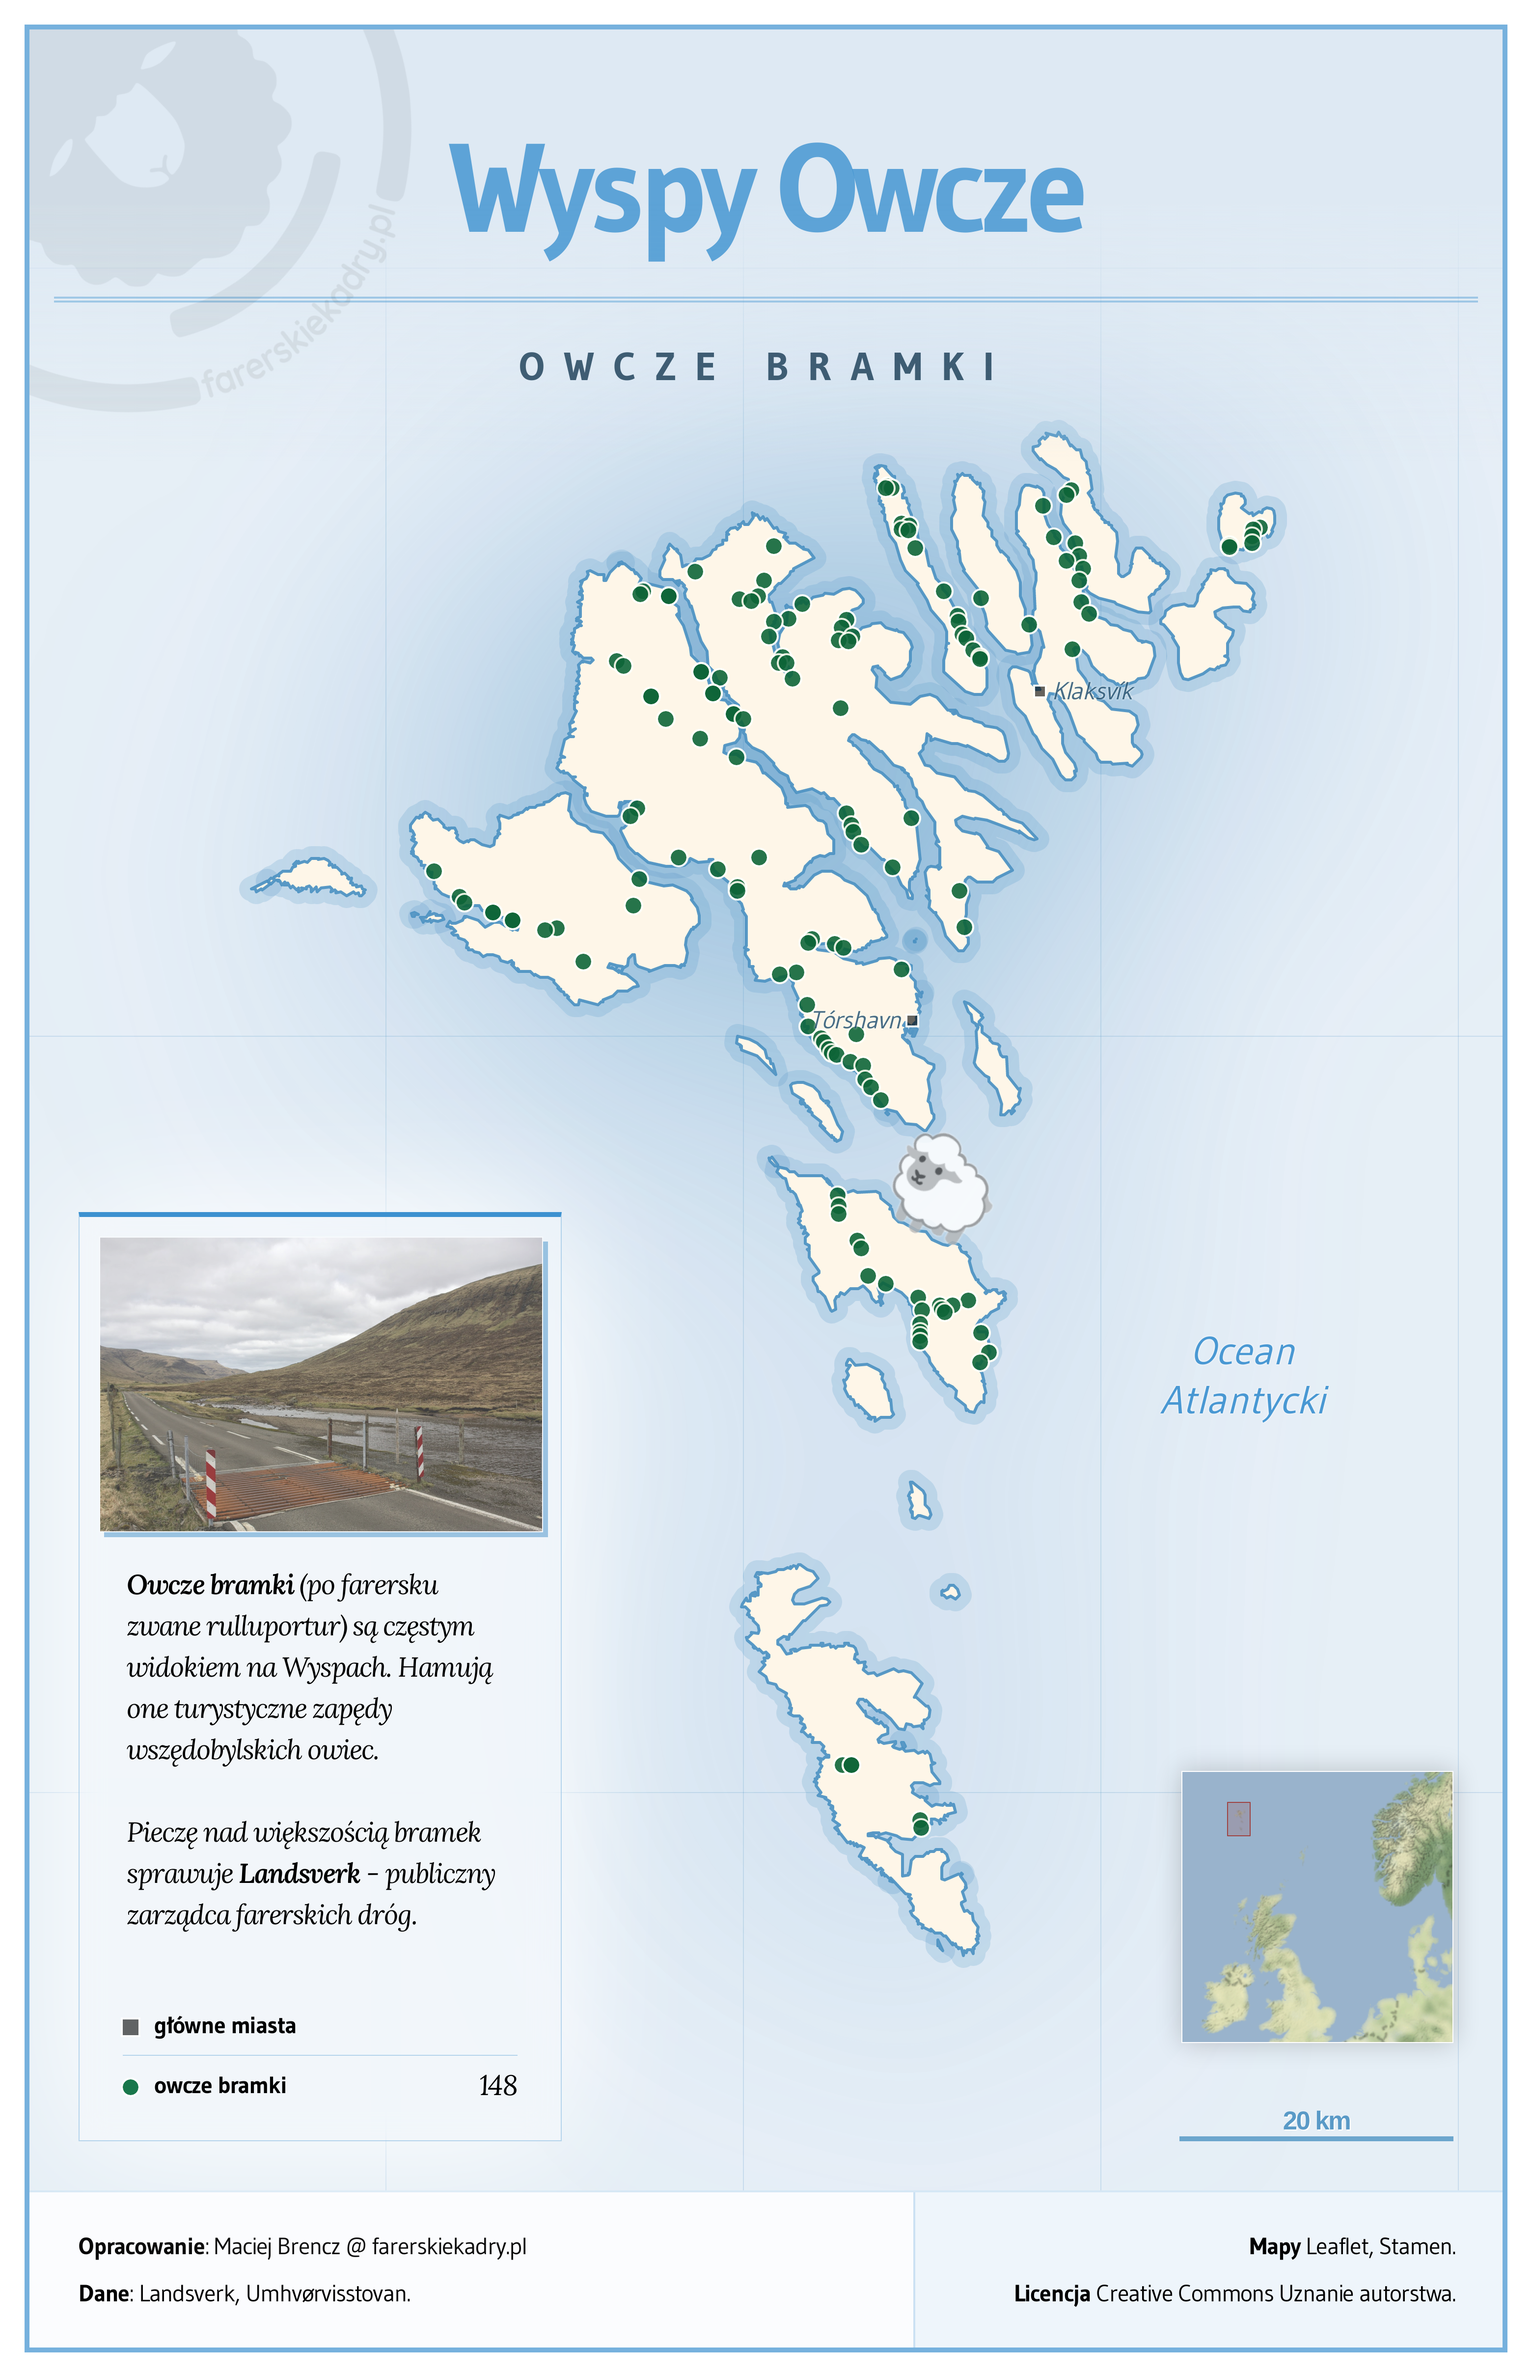
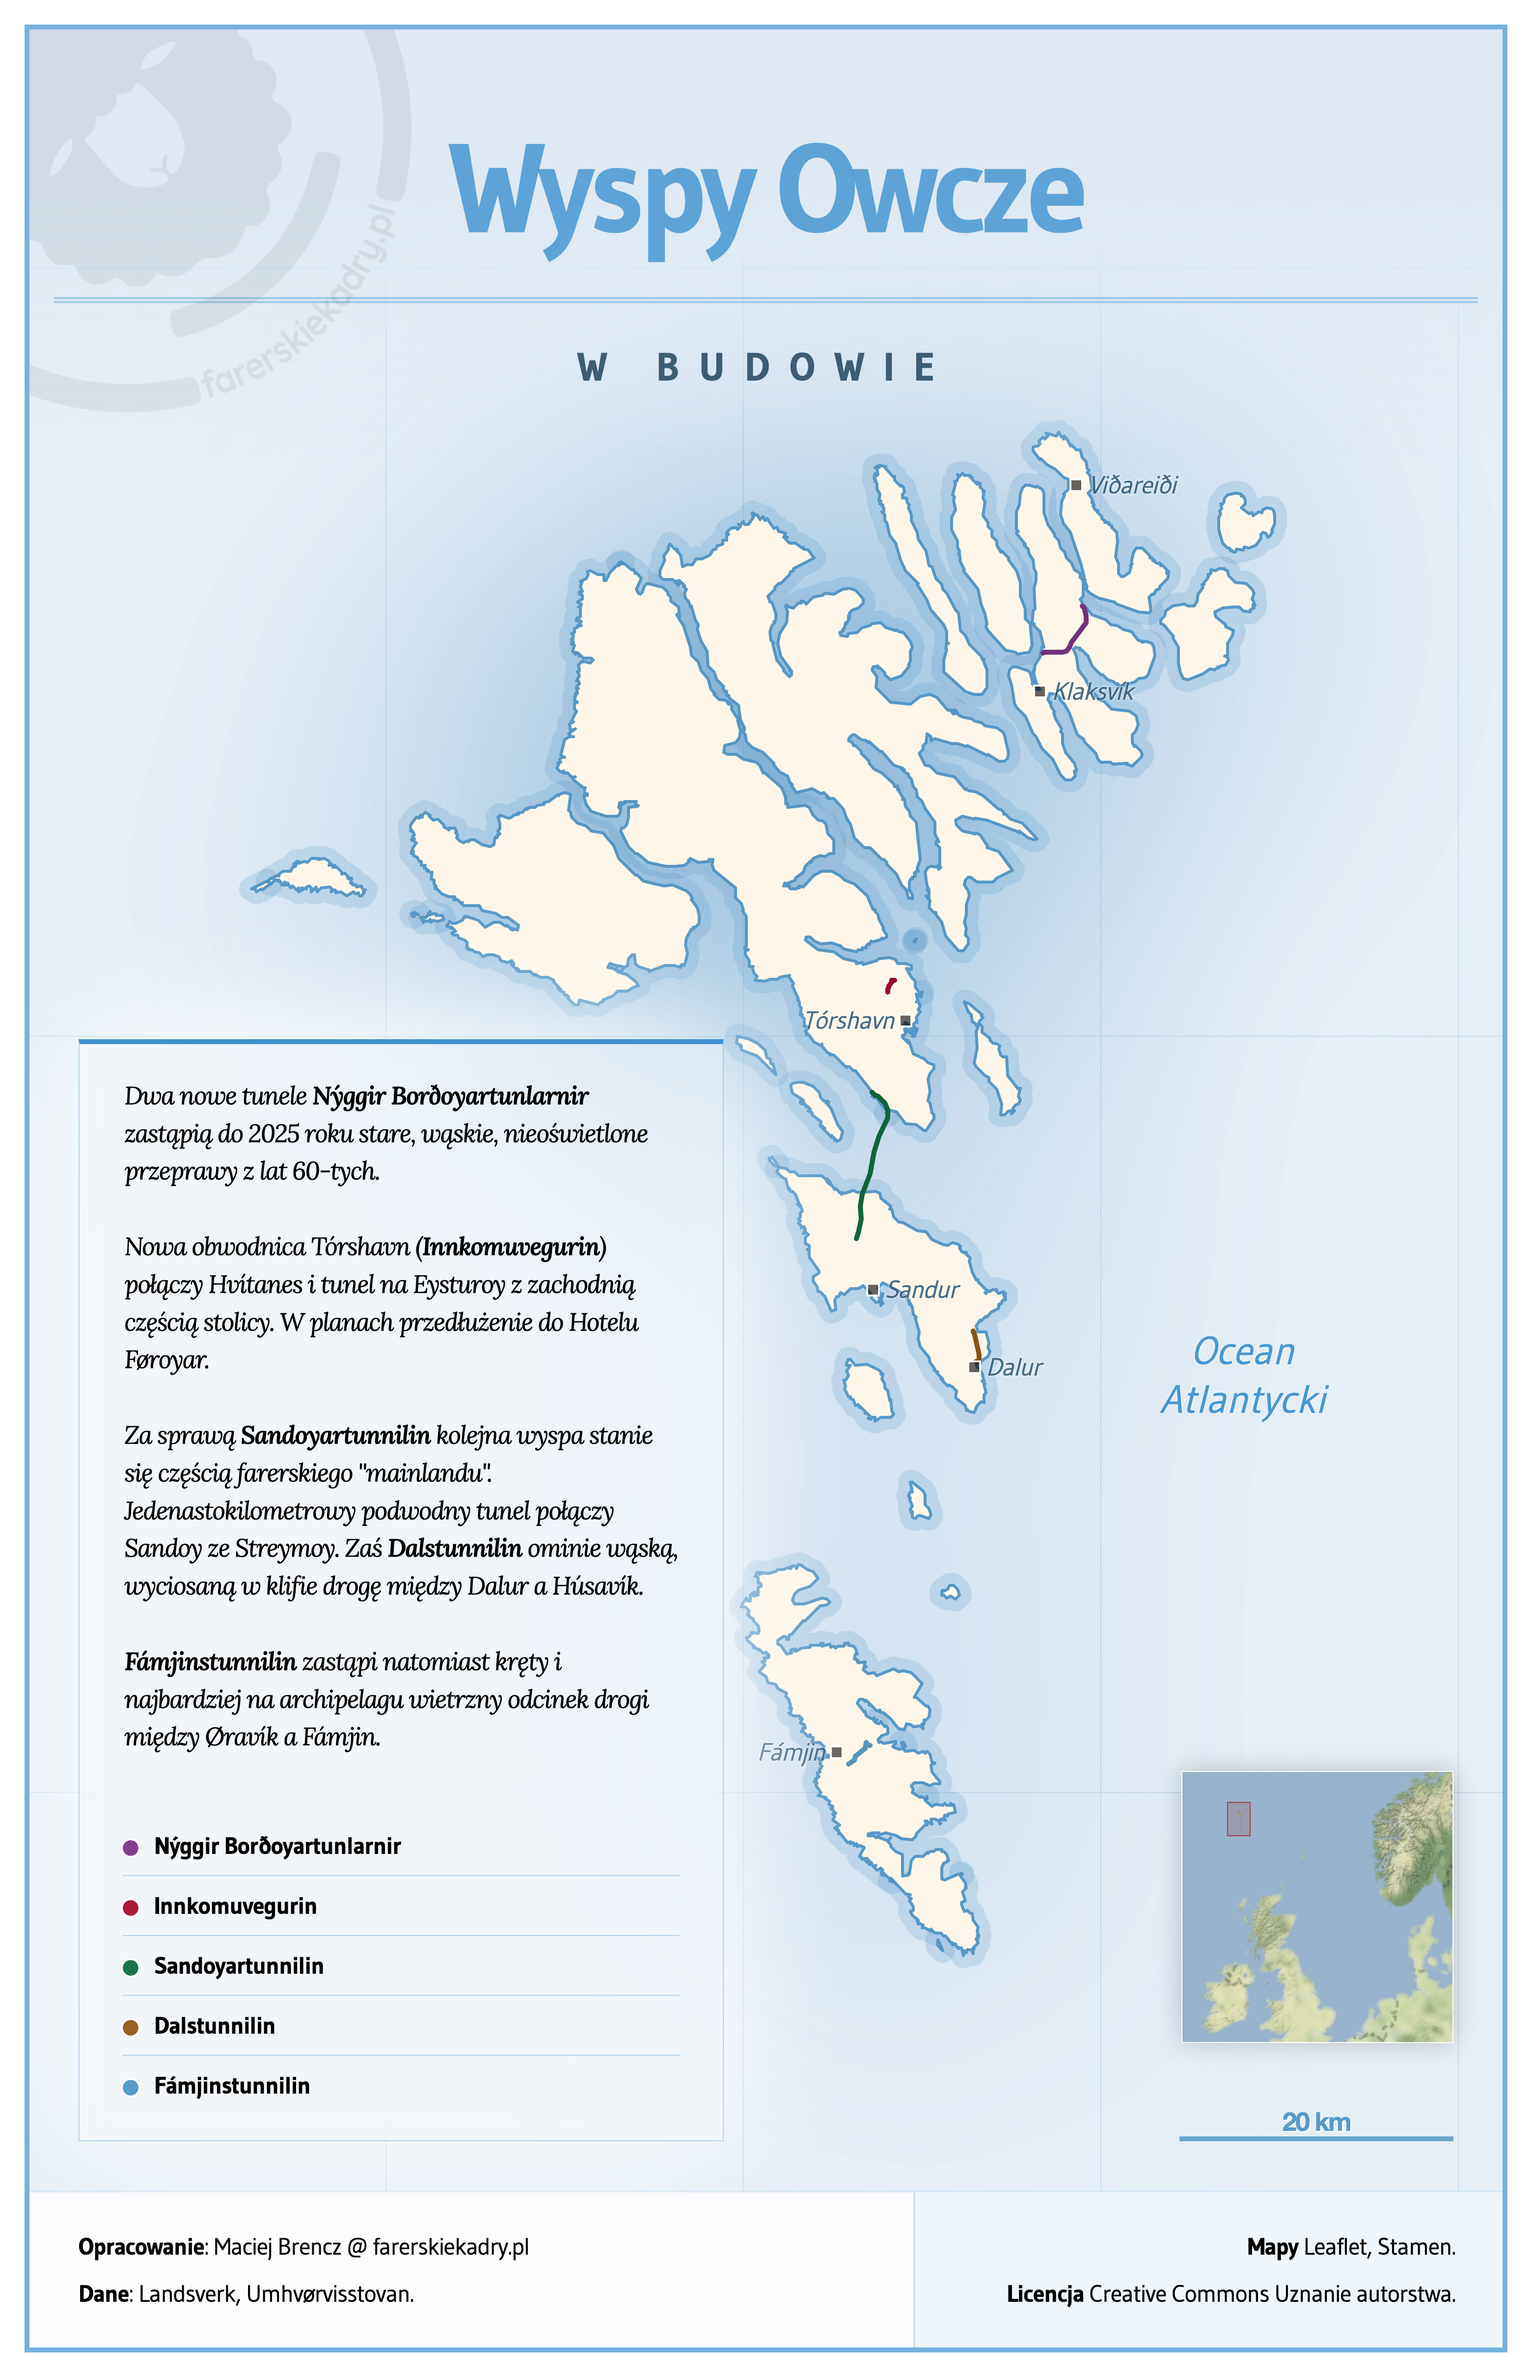
Map: Faroe Islands under construction

diff --git a/faroe.html b/faroe.html
@@ -24,29 +24,40 @@
 				<h1 lang="en">Faroe Islands</h1>
 				<h1 lang="pl">Wyspy Owcze</h1>
 
-				<h2 lang="en">Cattle grids</h2>
-				<h2 lang="pl">Owcze bramki</h2>
+				<h2 lang="en">under construction / í gerð</h2>
+				<h2 lang="pl">w budowie</h2>
 
-				<legend>
-					<img src="https://3.bp.blogspot.com/-d6oBGCensQ8/U2ADslYwc4I/AAAAAAAAIXM/SSR4NbDTxP8/s1600/IMG_0500.jpg">
+				<legend style="width: 41%">
+					<!-- <img src="https://3.bp.blogspot.com/-d6oBGCensQ8/U2ADslYwc4I/AAAAAAAAIXM/SSR4NbDTxP8/s1600/IMG_0500.jpg"> -->
 					<p lang="en">
-						<strong>Cattle grids</strong> (or <em>rulluportur</em> in Faroese) are quite common on Faroe Islands. With around 70&nbsp;thousand sheep grazing in
-						the Islands some means to control their journeys are necessary.
+						<!--The well developed Faroese road infrastructure is constantly being improved. New tunnels and roads are being built.
+						<br><br>-->
+						<strong>Nýggir Borðoyartunlarnir</strong> will replace two unlit single lane tunnels built in the late 60s.
 						<br><br>
-						Most of the gates are maintained by <strong>Landsverk</strong> - the administrator of the Faroese transportation network.
+						<strong>Innkomuvegurin</strong>, a new bypass road between Hvítanes and Tórshavn (including a short tunnel) is expected to be ready in 2025.
+						<br><br>
+						Sandoy will soon become a part of the Faroese "mainland". The 11-km long underwater <strong>Sandoyartunnilin</strong> is to be completed by the end of 2023.
+						Additionally, the narrow cliffside road between Dalur and Húsavík will be replaced by <strong>Dalstunnilin</strong>.
+						<br><br>
+						<strong>Fámjinstunnilin</strong> (to be completed in 2024) will connect Øravík with Fámjin, superseding the most windy Faroese road.
 					</p>
-					<p lang="pl">
-						<strong>Owcze bramki</strong> (po farersku zwane <em>rulluportur</em>) są częstym widokiem na Wyspach.
-						Hamują one turystyczne zapędy wszędobylskich owiec.
+					<p lang="pl" style="font-size: 1.6rem">
+						Dwa nowe tunele <strong>Nýggir Borðoyartunlarnir</strong> zastąpią do 2025 roku stare, wąskie, nieoświetlone przeprawy z lat 60-tych.
 						<br><br>
-						Pieczę nad większością bramek sprawuje <strong>Landsverk</strong> - publiczny zarządca farerskich dróg.
+						Nowa obwodnica Tórshavn (<strong>Innkomuvegurin</strong>) połączy Hvítanes i tunel na Eysturoy z zachodnią częścią stolicy. W planach przedłużenie do Hotelu Føroyar.
+						<br><br>
+						Za sprawą <strong>Sandoyartunnilin</strong> kolejna wyspa stanie się częścią farerskiego "mainlandu". Jedenastokilometrowy podwodny tunel połączy Sandoy ze Streymoy.
+						Zaś <strong>Dalstunnilin</strong> ominie wąską, wyciosaną w klifie drogę między Dalur a Húsavík.
+						<br><br>
+						<strong>Fámjinstunnilin</strong> zastąpi natomiast kręty i najbardziej na archipelagu wietrzny odcinek drogi między Øravík a Fámjin.
 					</p>
 					<ul>
-						<li><span class="marker black"></span><span lang="en">major towns</span><span lang="pl">główne miasta</span></li>
-						<!-- cat faroe-islands-latest.osm.bz2 | bzip2 -d | grep 'ferry_terminal' -c -->
-						<!-- <li><span class="marker green"></span>bus stops<span class="tally">173</span></li>
-						<li><span class="marker blue"></span>helipads<span class="tally">18</span></li>
-						<li><span class="marker yellow"></span>ferries ports<span class="tally">23</span></li> -->
+						<!--<li><span class="marker black"></span><span lang="en">major towns</span><span lang="pl">główne miasta</span></li>-->
+						<li><span class="marker blue" style="background: #762a83"></span>Nýggir Borðoyartunlarnir</li>
+						<li><span class="marker blue" style="background: #a50026"></span>Innkomuvegurin</li>
+						<li><span class="marker blue" style="background: #006837"></span>Sandoyartunnilin</li>
+						<li><span class="marker blue" style="background: #8c510a"></span>Dalstunnilin</li>
+						<li><span class="marker blue" style="background: #4393c3"></span>Fámjinstunnilin</li>
 					</ul>
 				</legend>
 
@@ -59,7 +70,7 @@
 
 				</section>
 
-				<label style="
+				<!-- <label style="
 				position: absolute;
 				font-size: 12em;
 				filter: grayscale(1);
@@ -69,7 +80,7 @@
 				opacity: .8;
 				">
 					🐑
-				</label>
+				</label> -->
 			</section>
 
 			<img id="logo" src="static/logo.png" />
@@ -104,6 +115,59 @@
 			const gridsPerCity = {};
 
 			await initMap(async (map) => {
+				const geojson = await fetchGeoJSON('/geojson/us-vegir-us_vegir_loyvda_ferd_vegt-27-1.json');
+
+				map.createPane('features');
+				map.getPane('features').style.zIndex = 700;
+
+				L.geoJSON(geojson, {
+					pane: 'features',
+					style: function(feature) {
+						// return {
+						// 	color: '#d73027',
+						// 	weight: 5,
+						// };
+
+						const city = feature.properties.city;
+						const defaultStyle = {weight: 5};
+						console.log(city, feature);
+						switch (city) {
+							// https://colorbrewer2.org/#type=diverging&scheme=RdYlGn&n=11
+							case 'Hoyvík': case 'Tórshavn':			return {color: "#a50026", ...defaultStyle};
+							case 'Sandur': case 'Kirkjubøur':		return {color: "#006837", ...defaultStyle};
+							case "Dalur": case 'Húsavík':			return {color: "#8c510a", ...defaultStyle};
+							case "Árnafjørður": case "Klaksvík": case "Depil":
+																	return {color: "#762a83", ...defaultStyle};
+							case "Ørðavík":							return {color: "#4393c3", ...defaultStyle};
+
+							default:
+								console.log('Mapping missing for', city, feature)
+						}
+					}
+				}).addTo(map);
+
+				L.tooltip({pane: 'labels', direction: 'right'})
+					.setLatLng( L.latLng(61.833611111111, -6.8169444444444) )
+					.setContent('Sandur')
+					.addTo(map);
+
+				L.tooltip({pane: 'labels', direction: 'left'})
+					.setLatLng( L.latLng(61.526388888889, -6.8769444444444) )
+					.setContent('Fámjin')
+					.addTo(map);
+
+				L.tooltip({pane: 'labels', direction: 'right'})
+					.setLatLng( L.latLng(62.3601, -6.5333) )
+					.setContent('Viðareiði')
+					.addTo(map);
+
+					L.tooltip({pane: 'labels', direction: 'right'})
+					.setLatLng( L.latLng(61.7822, -6.6756) )
+					.setContent('Dalur')
+					.addTo(map);
+
+
+				/**
 				// green / blue / yellow
 				await addGeoJSONLayer(map, '/geojson/us-rulluportur-rulluportur_alment-0-cattle_grid.json', 'dark-green', 'cattle grids', 'owcze bramki', (feature) => {
 					const city = feature.properties.city;
@@ -112,9 +176,10 @@
 					if (typeof gridsPerCity[city] === 'undefined') gridsPerCity[city] = 0;
 					gridsPerCity[city]++;
 				});
+				**/
 			});
 
-			console.log(gridsPerCity);
+			// console.log(gridsPerCity);
 		})();
 		</script>
 

diff --git a/static/faroe.js b/static/faroe.js
@@ -52,12 +52,10 @@ async function initMap( callback ) {
         .setContent('Tórshavn')
         .addTo(map);
 
-
     L.tooltip({pane: 'labels', direction: 'right'})
         .setLatLng( L.latLng(62.22542530358552, -6.583687811563278) )
         .setContent('Klaksvík')
         .addTo(map);
-
 
     // https://leafletjs.com/examples/geojson/
     var geojson = L.geoJson(
